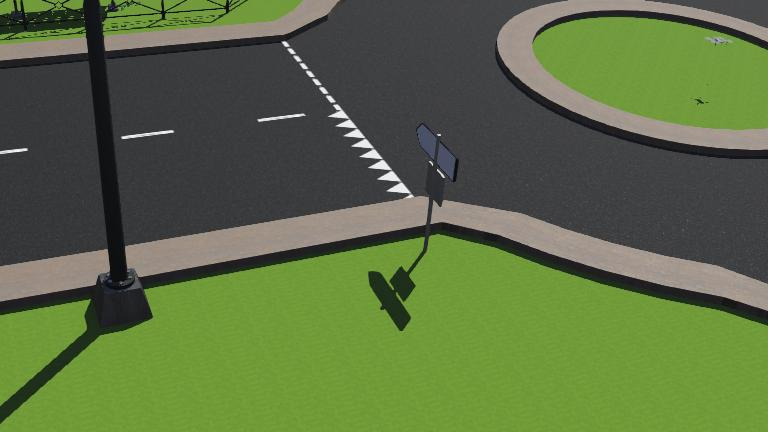
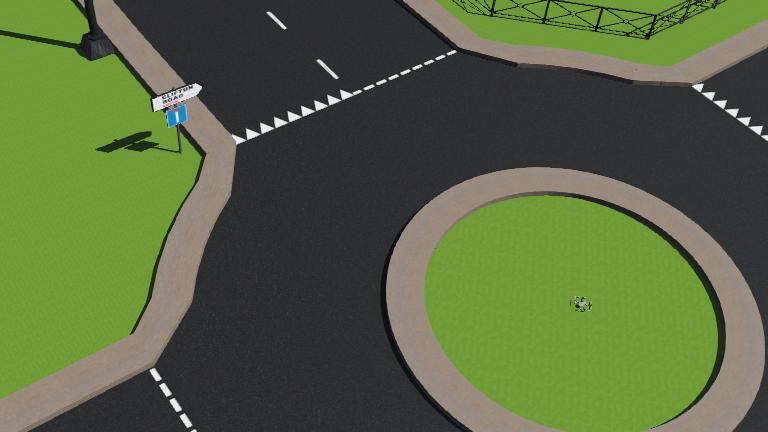
merged path planner branches

diff --git a/controllers/drone_controller/path_planner.py b/controllers/drone_controller/path_planner.py
@@ -54,7 +54,7 @@ class Path_Planner:
                 cost = avoid_risk * scaled_point + minimize_distance + current_distance + h
                 #if its the lowest current cost to reach that position it is saved
                 if cost < distanceArr[x, y, z]:
-                    distanceArr[x, y, z] = cost
+                    distanceArr[x, y, z] = cost - h
                     visitOrder.put((cost, (x, y, z)))
                     
                     previousNode[x, y, z] = current
